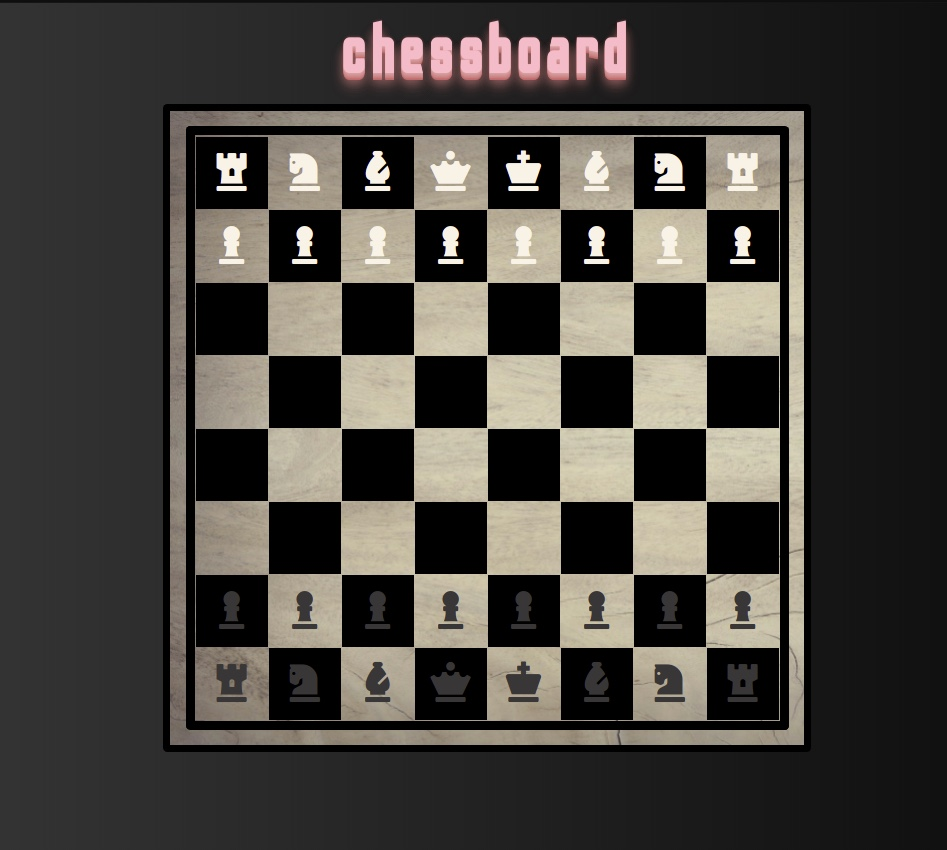
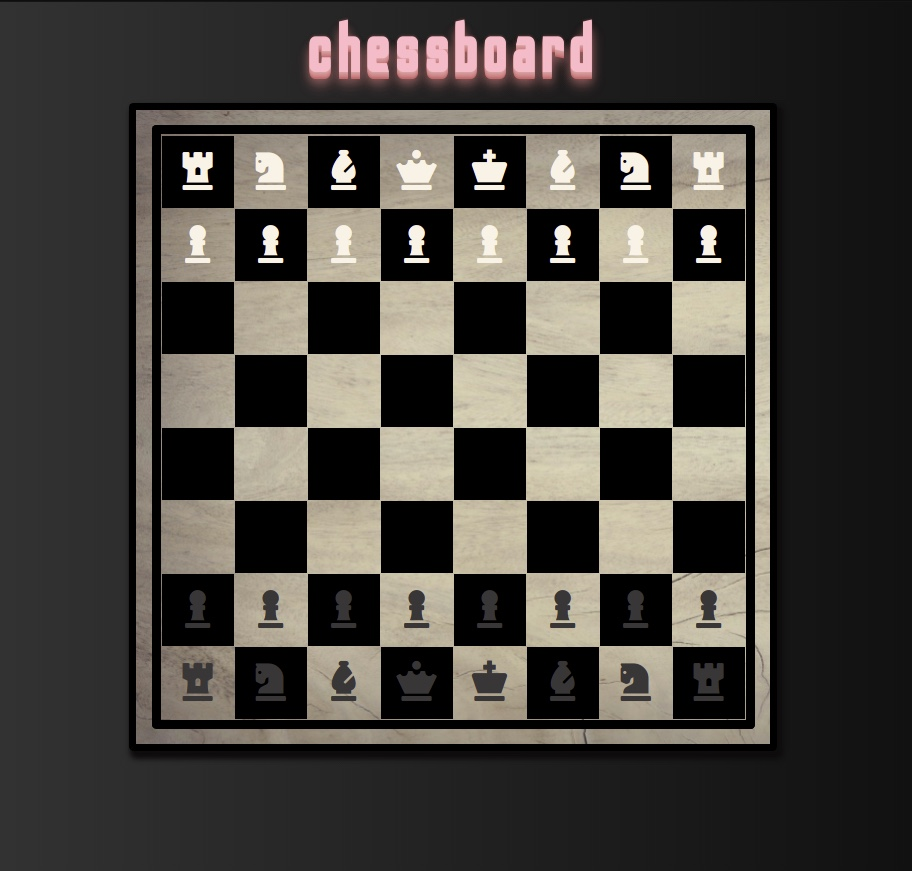
added shadow

Changed region(s): [[0.1228, 0.0, 0.8596, 0.8871]]

diff --git a/style.css b/style.css
@@ -38,7 +38,8 @@ h1{
     display: flex;
     align-items: center;
     justify-content: center;
-    /* box-shadow: 4px 6px 6px 3px black; */
+    box-shadow: 4px 6px 6px 3px rgb(22, 22, 22);
+    box-shadow: 4px 6px 6px 3px rgb(14, 13, 13);
     border-radius: 5px;
     border:8px groove black;
 }
